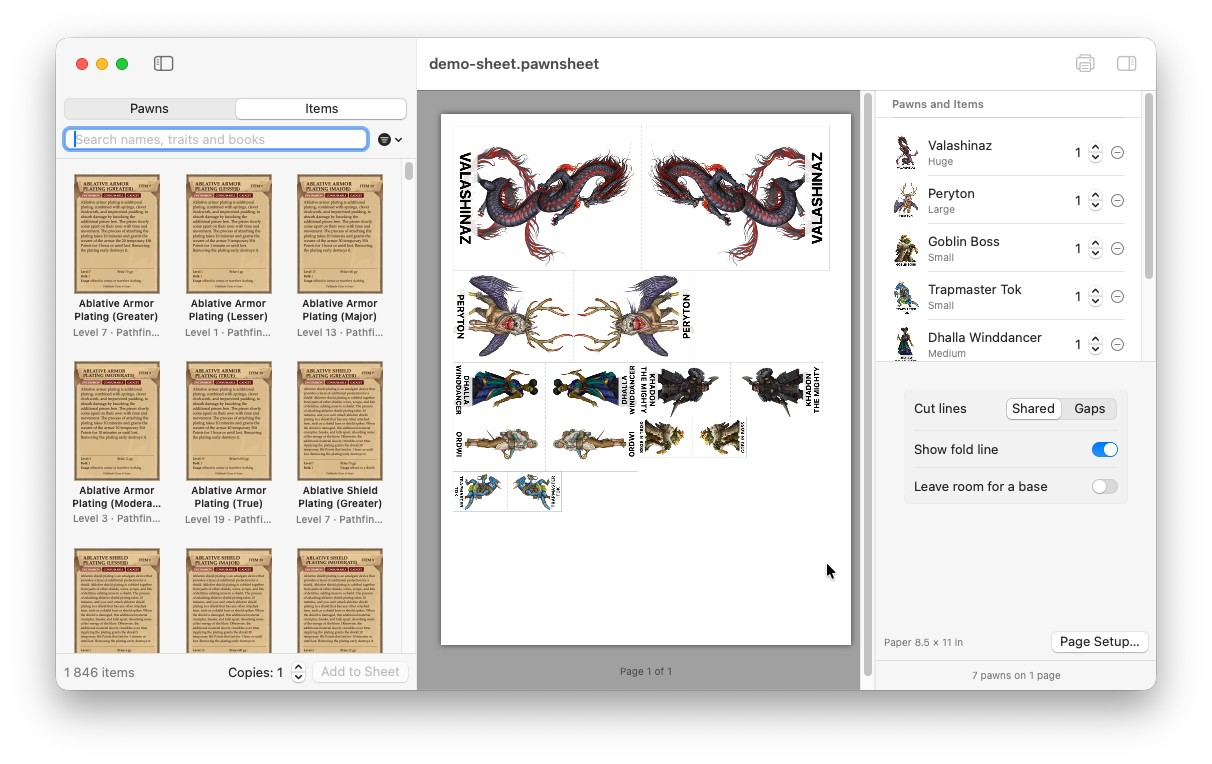
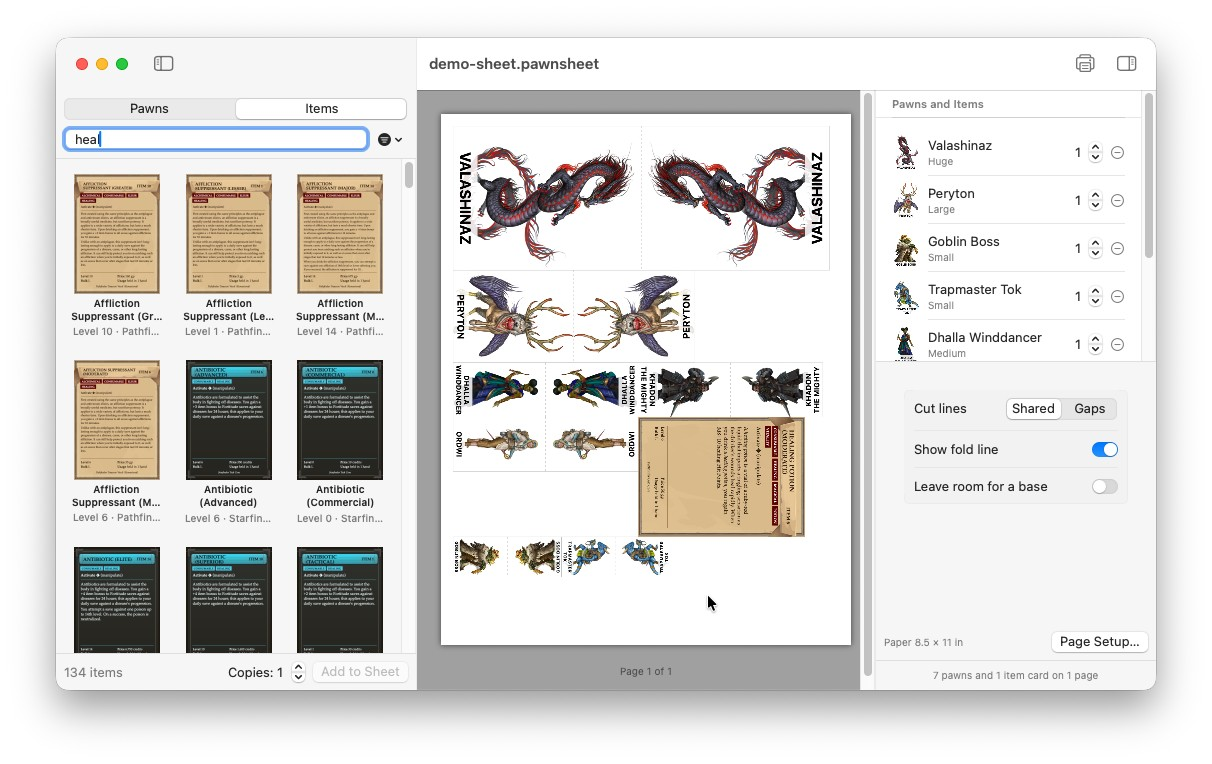
docs: Show both games' items and an item card in the screenshot

diff --git a/README.md b/README.md
@@ -36,10 +36,11 @@ its own.
 *Printed strips: fold each at the heads and stand it in a pawn base. These are custom pawns made from art
 Paizo has published on its blog (see [Sample art](#sample-art)); Paizo's pawns print the same way.*
 
-![The Pawn Shop window: item cards in the library on the left, a sheet of seven pawn strips in the middle and the sheet's pawns, copies and cut lines on the right](docs/images/screenshot.jpg)
+![The Pawn Shop window: Pathfinder and Starfinder item cards in the library on the left, a sheet of seven pawn strips and a healing potion card in the middle, and the sheet's pawns, copies and cut lines on the right](docs/images/screenshot.jpg)
 
-*The library on the left (here its item cards; the Pawns tab holds the pawns), the sheet as it will print in
-the middle, and the sheet's pawns, copies and cut lines on the right.*
+*The library on the left (here Pathfinder and Starfinder item cards; the Pawns tab holds the pawns), the sheet
+as it will print in the middle, pawns and an item card together, and the sheet's contents and cut lines on the
+right.*
 
 ## Features
 
